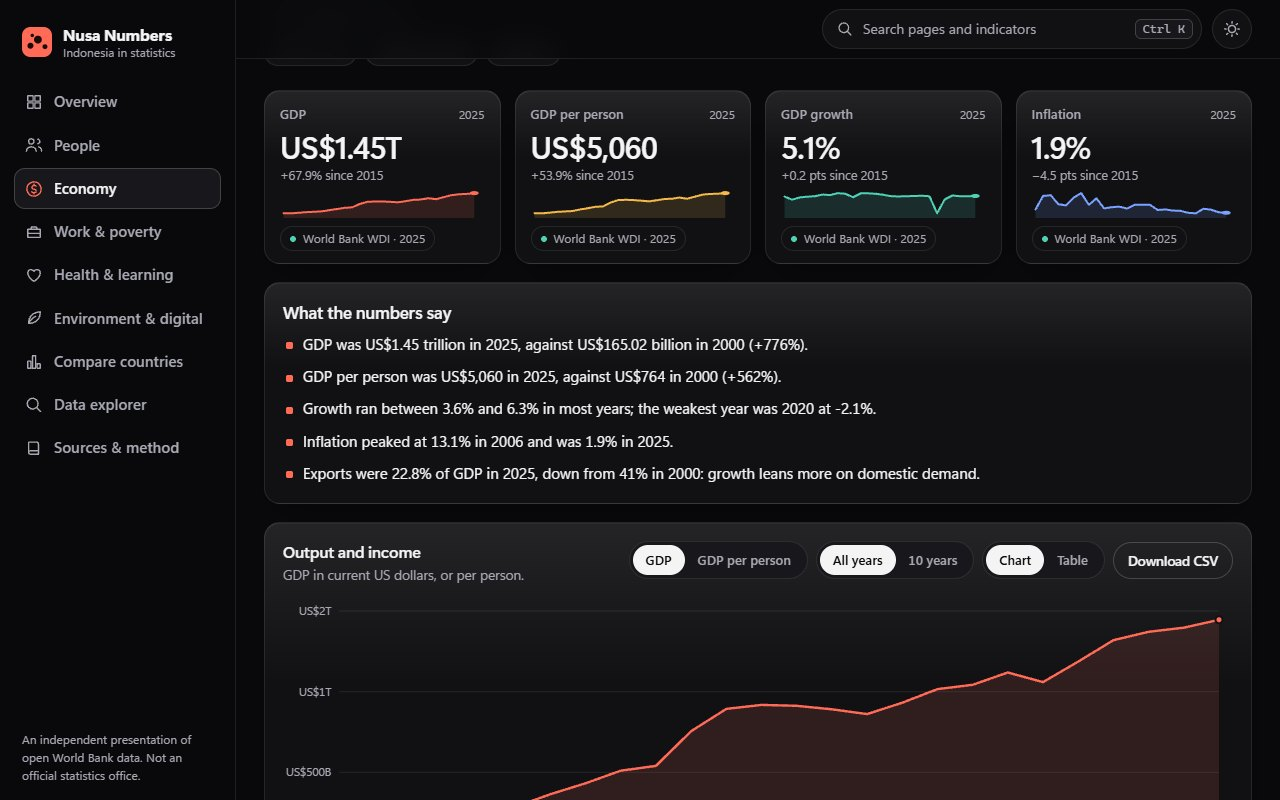
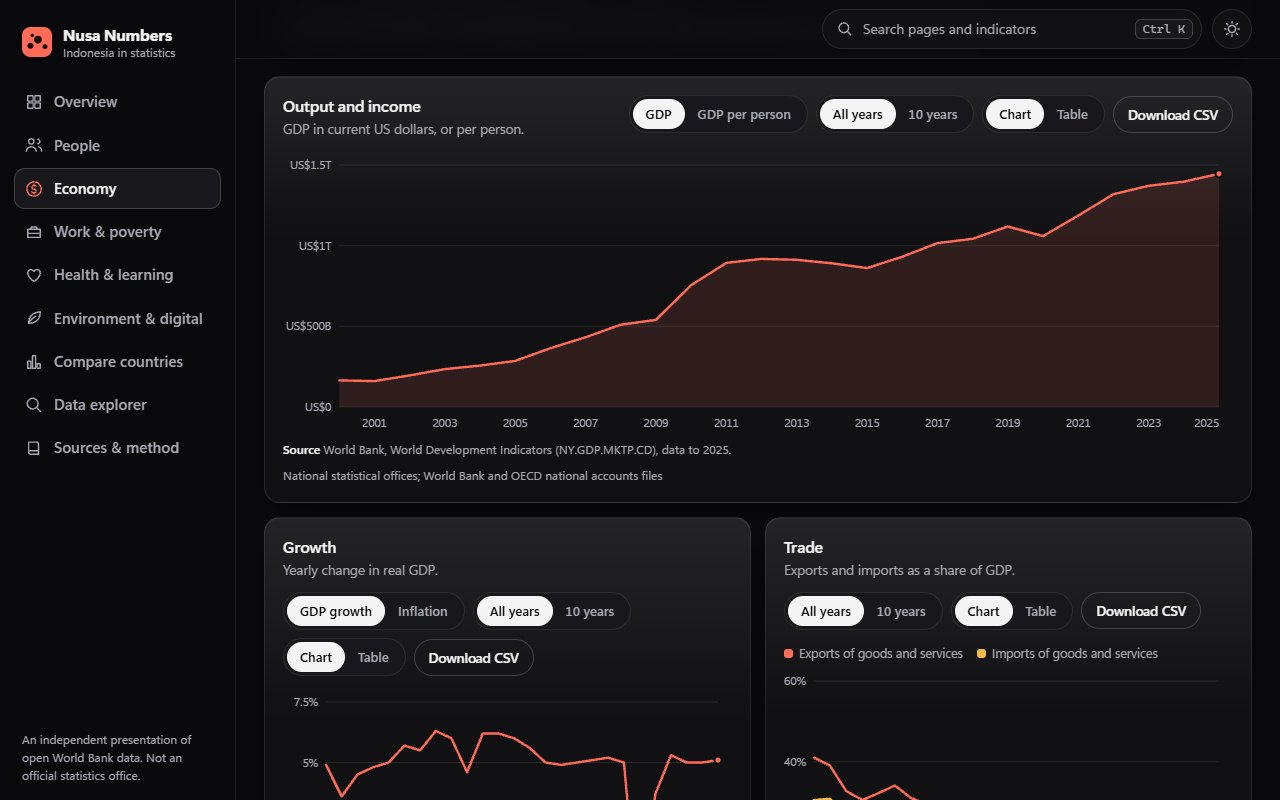
Reframe screenshots, fix axis labels, overflow, attributions; rename views->pages, data->series

diff --git a/app/js/catalog.js b/app/js/catalog.js
@@ -1,5 +1,5 @@
 // The catalogue: every indicator the site shows (World Bank code, label, how to format it, who compiled it)
-// and the topic pages they belong to. The numbers themselves live in app/data/, one file per topic.
+// and the topic pages they belong to. The numbers themselves live in app/series/, one file per topic.
 
 const WDI = 'World Bank WDI';
 
@@ -23,16 +23,16 @@ const ROWS = [
   ['SP.DYN.CBRT.IN', 'people', 'Birth rate', 'plain', 1, '', ' per 1,000', 'rate', 'UN Population Division', 'Live births per 1,000 people in a year.'],
   ['SP.DYN.CDRT.IN', 'people', 'Death rate', 'plain', 1, '', ' per 1,000', 'rate', 'UN Population Division', 'Deaths per 1,000 people in a year.'],
 
-  ['NY.GDP.MKTP.CD', 'economy', 'GDP', 'big', 2, 'US$', '', 'count', 'World Bank and OECD national accounts data', 'Gross domestic product at market prices, current US dollars.'],
-  ['NY.GDP.PCAP.CD', 'economy', 'GDP per person', 'plain', 0, 'US$', '', 'count', 'World Bank and OECD national accounts data', 'GDP divided by mid-year population, current US dollars.'],
-  ['NY.GDP.MKTP.KD.ZG', 'economy', 'GDP growth', 'plain', 1, '', '%', 'percent', 'World Bank and OECD national accounts data', 'Annual growth of GDP at constant prices.'],
+  ['NY.GDP.MKTP.CD', 'economy', 'GDP', 'big', 2, 'US$', '', 'count', 'National statistical offices; World Bank and OECD national accounts files', 'Gross domestic product at market prices, current US dollars.'],
+  ['NY.GDP.PCAP.CD', 'economy', 'GDP per person', 'plain', 0, 'US$', '', 'count', 'National statistical offices; World Bank and OECD national accounts files', 'GDP divided by mid-year population, current US dollars.'],
+  ['NY.GDP.MKTP.KD.ZG', 'economy', 'GDP growth', 'plain', 1, '', '%', 'percent', 'National statistical offices; World Bank and OECD national accounts files', 'Annual growth of GDP at constant prices.'],
   ['FP.CPI.TOTL.ZG', 'economy', 'Inflation', 'plain', 1, '', '%', 'percent', 'IMF International Financial Statistics', 'Annual change in consumer prices.'],
-  ['NE.EXP.GNFS.ZS', 'economy', 'Exports of goods and services', 'plain', 1, '', '% of GDP', 'percent', 'World Bank and OECD national accounts data', 'Value of exports as a share of GDP.'],
-  ['NE.IMP.GNFS.ZS', 'economy', 'Imports of goods and services', 'plain', 1, '', '% of GDP', 'percent', 'World Bank and OECD national accounts data', 'Value of imports as a share of GDP.'],
-  ['BX.KLT.DINV.WD.GD.ZS', 'economy', 'Foreign direct investment', 'plain', 1, '', '% of GDP', 'percent', 'IMF Balance of Payments Statistics', 'Net inflows of foreign direct investment as a share of GDP.'],
-  ['NV.AGR.TOTL.ZS', 'economy', 'Agriculture, value added', 'plain', 1, '', '% of GDP', 'percent', 'World Bank and OECD national accounts data', 'Farming, forestry and fishing as a share of GDP.'],
-  ['NV.IND.TOTL.ZS', 'economy', 'Industry, value added', 'plain', 1, '', '% of GDP', 'percent', 'World Bank and OECD national accounts data', 'Mining, manufacturing, construction and utilities as a share of GDP.'],
-  ['NV.SRV.TOTL.ZS', 'economy', 'Services, value added', 'plain', 1, '', '% of GDP', 'percent', 'World Bank and OECD national accounts data', 'Trade, transport, finance, public and other services as a share of GDP.'],
+  ['NE.EXP.GNFS.ZS', 'economy', 'Exports of goods and services', 'plain', 1, '', '% of GDP', 'percent', 'National statistical offices; World Bank and OECD national accounts files', 'Value of exports as a share of GDP.'],
+  ['NE.IMP.GNFS.ZS', 'economy', 'Imports of goods and services', 'plain', 1, '', '% of GDP', 'percent', 'National statistical offices; World Bank and OECD national accounts files', 'Value of imports as a share of GDP.'],
+  ['BX.KLT.DINV.WD.GD.ZS', 'economy', 'Foreign direct investment', 'plain', 1, '', '% of GDP', 'percent', 'IMF International Financial Statistics and Balance of Payments databases', 'Net inflows of foreign direct investment as a share of GDP.'],
+  ['NV.AGR.TOTL.ZS', 'economy', 'Agriculture, value added', 'plain', 1, '', '% of GDP', 'percent', 'National statistical offices; World Bank and OECD national accounts files', 'Farming, forestry and fishing as a share of GDP.'],
+  ['NV.IND.TOTL.ZS', 'economy', 'Industry, value added', 'plain', 1, '', '% of GDP', 'percent', 'National statistical offices; World Bank and OECD national accounts files', 'Mining, manufacturing, construction and utilities as a share of GDP.'],
+  ['NV.SRV.TOTL.ZS', 'economy', 'Services, value added', 'plain', 1, '', '% of GDP', 'percent', 'National statistical offices; World Bank and OECD national accounts files', 'Trade, transport, finance, public and other services as a share of GDP.'],
 
   ['SL.UEM.TOTL.ZS', 'labour', 'Unemployment', 'plain', 1, '', '%', 'percent', 'ILO modelled estimates', 'Share of the labour force without work but available and looking for it.'],
   ['SL.TLF.CACT.ZS', 'labour', 'Labour force participation', 'plain', 1, '', '%', 'percent', 'ILO modelled estimates', 'People aged 15+ who work or look for work, as a share of that age group.'],
@@ -52,8 +52,8 @@ const ROWS = [
   ['SE.XPD.TOTL.GD.ZS', 'wellbeing', 'Education spending', 'plain', 1, '', '% of GDP', 'percent', 'UNESCO Institute for Statistics', 'Government spending on education as a share of GDP.'],
 
   ['EN.GHG.CO2.PC.CE.AR5', 'environment', 'CO₂ emissions per person', 'plain', 2, '', ' t', 'count', 'EDGAR (European Commission JRC) via WDI', 'Tonnes of carbon dioxide per person, excluding land use change and forestry.'],
-  ['EG.ELC.ACCS.ZS', 'environment', 'Access to electricity', 'plain', 1, '', '%', 'percent', 'Sustainable Energy for All; Tracking SDG7', 'Share of the population with electricity at home.'],
-  ['EG.FEC.RNEW.ZS', 'environment', 'Renewable share of energy', 'plain', 1, '', '%', 'percent', 'IEA; Sustainable Energy for All', 'Renewables as a share of final energy consumption.'],
+  ['EG.ELC.ACCS.ZS', 'environment', 'Access to electricity', 'plain', 1, '', '%', 'percent', 'World Bank ESMAP, SDG 7.1.1 electrification dataset', 'Share of the population with electricity at home.'],
+  ['EG.FEC.RNEW.ZS', 'environment', 'Renewable share of energy', 'plain', 1, '', '%', 'percent', 'IEA Energy Statistics', 'Renewables as a share of final energy consumption.'],
   ['AG.LND.FRST.ZS', 'environment', 'Forest area', 'plain', 1, '', '% of land', 'percent', 'FAO Global Forest Resources Assessment', 'Land under natural or planted trees at least 5 m tall.'],
   ['IT.NET.USER.ZS', 'environment', 'Internet users', 'plain', 1, '', '% of people', 'percent', 'International Telecommunication Union', 'People who used the internet in the last three months.'],
   ['IT.CEL.SETS.P2', 'environment', 'Mobile subscriptions', 'plain', 0, '', ' per 100', 'rate', 'International Telecommunication Union', 'Active mobile-cellular subscriptions per 100 people.'],

diff --git a/app/js/routes.js b/app/js/routes.js
@@ -1,15 +1,15 @@
 // The site map: each route's path, nav label and the lazily loaded view module that draws it.
 // Views are fetched with literal import() calls so the first load stays small.
 export const ROUTES = [
-  { path: '/', label: 'Overview', icon: 'grid', load: () => import('./views/overview.js') },
-  { path: '/people', label: 'People', icon: 'people', load: () => import('./views/people.js') },
-  { path: '/economy', label: 'Economy', icon: 'coin', load: () => import('./views/economy.js') },
-  { path: '/work', label: 'Work & poverty', icon: 'work', load: () => import('./views/labour.js') },
-  { path: '/health', label: 'Health & learning', icon: 'heart', load: () => import('./views/wellbeing.js') },
-  { path: '/environment', label: 'Environment & digital', icon: 'leaf', load: () => import('./views/environment.js') },
-  { path: '/compare', label: 'Compare countries', icon: 'bars', load: () => import('./views/compare.js') },
-  { path: '/explorer', label: 'Data explorer', icon: 'search', load: () => import('./views/explorer.js') },
-  { path: '/sources', label: 'Sources & method', icon: 'book', load: () => import('./views/sources.js') },
+  { path: '/', label: 'Overview', icon: 'grid', load: () => import('./pages/overview.js') },
+  { path: '/people', label: 'People', icon: 'people', load: () => import('./pages/people.js') },
+  { path: '/economy', label: 'Economy', icon: 'coin', load: () => import('./pages/economy.js') },
+  { path: '/work', label: 'Work & poverty', icon: 'work', load: () => import('./pages/labour.js') },
+  { path: '/health', label: 'Health & learning', icon: 'heart', load: () => import('./pages/wellbeing.js') },
+  { path: '/environment', label: 'Environment & digital', icon: 'leaf', load: () => import('./pages/environment.js') },
+  { path: '/compare', label: 'Compare countries', icon: 'bars', load: () => import('./pages/compare.js') },
+  { path: '/explorer', label: 'Data explorer', icon: 'search', load: () => import('./pages/explorer.js') },
+  { path: '/sources', label: 'Sources & method', icon: 'book', load: () => import('./pages/sources.js') },
 ];
 
 export const TOPIC_PATH = { people: '/people', economy: '/economy', labour: '/work', wellbeing: '/health', environment: '/environment' };

diff --git a/app/js/pages/explorer.js b/app/js/pages/explorer.js
@@ -3,7 +3,7 @@
 import { INDICATORS, TOPICS, indicatorsOfTopic } from '../catalog.js';
 import { loadEverything, seriesOf } from '../data-store.js';
 import { h } from '../dom.js';
-import { formatChange, formatValue, shorten } from '../format.js';
+import { axisShort, formatChange, formatValue } from '../format.js';
 import { lineChart } from '../charts/line-chart.js';
 import { csvButton, dataTable } from '../ui/data-table.js';
 import { pageHeader } from '../ui/page-header.js';
@@ -46,7 +46,7 @@ export async function render({ query }) {
     const body =
       state.view === 'table'
         ? dataTable([{ label: 'Year', align: 'left' }, { label: ind.label }], [...points].reverse().map((p) => [String(p.year), formatValue(ind, p.value)]), ind.label)
-        : lineChart({ series: [{ label: ind.label, points }], format: (v) => formatValue(ind, v), axisFormat: (v) => (ind.kind === 'big' ? `${ind.prefix}${shorten(v, { decimals: 0 })}` : `${ind.prefix}${v.toLocaleString('en-US', { maximumFractionDigits: 1 })}${ind.suffix.startsWith('%') ? '%' : ''}`), area: true, label: `${ind.label}, ${first.year} to ${last.year}` });
+        : lineChart({ series: [{ label: ind.label, points }], format: (v) => formatValue(ind, v), axisFormat: (v) => (ind.kind === 'big' ? `${ind.prefix}${axisShort(v)}` : `${ind.prefix}${v.toLocaleString('en-US', { maximumFractionDigits: 1 })}${ind.suffix.startsWith('%') ? '%' : ''}`), area: true, label: `${ind.label}, ${first.year} to ${last.year}` });
     out.replaceChildren(
       h('div', { class: 'mini-stats' },
         stat(`${last.year}`, formatValue(ind, last.value), 'latest in range'),

diff --git a/app/js/ui/chart-panel.js b/app/js/ui/chart-panel.js
@@ -6,14 +6,14 @@
 import { INDICATORS } from '../catalog.js';
 import { seriesOf } from '../data-store.js';
 import { h } from '../dom.js';
-import { formatValue, shorten } from '../format.js';
+import { axisShort, formatValue } from '../format.js';
 import { lineChart } from '../charts/line-chart.js';
 import { stackedColumns } from '../charts/stacked-columns.js';
 import { csvButton, dataTable } from './data-table.js';
 import { sourceLine } from './source-chip.js';
 import { tabs } from './tabs.js';
 
-const axisFor = (ind) => (value) => (ind.kind === 'big' ? shorten(value, { decimals: 0 }).replace(/^/, ind.prefix) : `${ind.prefix}${value.toLocaleString('en-US', { maximumFractionDigits: ind.decimals > 0 ? 1 : 0 })}${ind.suffix.startsWith('%') ? '%' : ''}`);
+const axisFor = (ind) => (value) => (ind.kind === 'big' ? `${ind.prefix}${axisShort(value)}` : `${ind.prefix}${value.toLocaleString('en-US', { maximumFractionDigits: ind.decimals > 0 ? 1 : 0 })}${ind.suffix.startsWith('%') ? '%' : ''}`);
 
 function trim(points, range) {
   return range === 'all' ? points : points.filter((p) => p.year > points.at(-1).year - Number(range));

diff --git a/app/js/pages/overview.js b/app/js/pages/overview.js
@@ -3,7 +3,7 @@
 import { COUNTRIES, INDICATORS, TOPICS } from '../catalog.js';
 import { latestOf, loadEverything, peerData, seriesOf } from '../data-store.js';
 import { h } from '../dom.js';
-import { formatValue, shorten } from '../format.js';
+import { axisShort, formatValue } from '../format.js';
 import { lineChart } from '../charts/line-chart.js';
 import { rankedBars } from '../charts/ranked-bars.js';
 import { TOPIC_PATH, hrefTo } from '../routes.js';
@@ -34,7 +34,7 @@ function heroCard() {
       lineChart({
         series: [{ label: ind.label, points: seriesOf(code) }],
         format: (v) => formatValue(ind, v),
-        axisFormat: (v) => (ind.kind === 'big' ? `${ind.prefix}${shorten(v, { decimals: 0 })}` : `${ind.prefix}${v.toLocaleString('en-US')}`),
+        axisFormat: (v) => (ind.kind === 'big' ? `${ind.prefix}${axisShort(v)}` : `${ind.prefix}${v.toLocaleString('en-US')}`),
         area: true,
         height: 140,
         label: `${ind.label}, ${first.year} to ${last.year}`,

diff --git a/app/js/format.js b/app/js/format.js
@@ -26,6 +26,9 @@ export function shorten(value, { long = false, decimals = 1 } = {}) {
   return group(value, abs >= 100 ? 0 : decimals);
 }
 
+// Axis labels: "1.5T", "500B", "250M" (one decimal only when it is needed).
+export const axisShort = (value) => shorten(value, { decimals: 1 }).replace(/\.0(?=[A-Z]?$)/, '');
+
 // Format a value of one indicator, e.g. formatValue(ind, 5.05) -> "5.1%".
 export function formatValue(ind, value, { short = false } = {}) {
   if (value == null || Number.isNaN(value)) return 'n/a';
@@ -39,7 +42,7 @@ export function formatValue(ind, value, { short = false } = {}) {
 // Signed change, used for "since 2000" style captions.
 export function formatChange(ind, from, to) {
   if (from == null || to == null) return '';
-  if (ind.unit === 'percent' || ind.unit === 'rate') {
+  if (ind.unit === 'percent') {
     const diff = to - from;
     return `${diff >= 0 ? '+' : '−'}${group(Math.abs(diff), 1)} pts`;
   }

diff --git a/app/js/charts/bubble-scatter.js b/app/js/charts/bubble-scatter.js
@@ -34,7 +34,9 @@ export function bubbleScatter({ dots, xFormat, yFormat, xTitle, yTitle, height =
       const r = 6 + Math.sqrt(dot.size / maxSize) * 18;
       const cx = x(dot.x);
       const cy = y(dot.y);
-      const above = order.indexOf(dot) % 2 === 1;
+      const home = dots.find((d) => d.highlight);
+      const nextToHome = !dot.highlight && home && Math.abs(Math.log10(dot.x / home.x)) < 0.12; // neighbours of the highlighted bubble go above it
+      const above = dot.highlight ? false : nextToHome || order.indexOf(dot) % 2 === 1;
       const place = { x: Math.min(cx, width - 30), y: above ? cy - r - 6 : cy + r + 14, anchor: 'middle' };
       root.append(
         svg('g', { class: dot.highlight ? 'bubble is-home' : 'bubble' },

diff --git a/app/js/data-store.js b/app/js/data-store.js
@@ -3,12 +3,12 @@
 import { INDICATORS } from './catalog.js';
 
 const loaders = {
-  people: () => import('../data/people.js'),
-  economy: () => import('../data/economy.js'),
-  labour: () => import('../data/labour.js'),
-  wellbeing: () => import('../data/wellbeing.js'),
-  environment: () => import('../data/environment.js'),
-  peers: () => import('../data/peers.js'),
+  people: () => import('../series/people.js'),
+  economy: () => import('../series/economy.js'),
+  labour: () => import('../series/labour.js'),
+  wellbeing: () => import('../series/wellbeing.js'),
+  environment: () => import('../series/environment.js'),
+  peers: () => import('../series/peers.js'),
 };
 
 const modules = new Map();

diff --git a/app/css/components.css b/app/css/components.css
@@ -82,7 +82,7 @@ kbd { padding: 2px 7px; border-radius: 6px; border: 1px solid var(--border-stron
 .hero-chart { min-height: 140px; }
 
 /* panels */
-.panel { display: grid; gap: 14px; align-content: start; }
+.panel { display: grid; grid-template-columns: minmax(0, 1fr); gap: 14px; align-content: start; }
 .panel-head { display: flex; justify-content: space-between; align-items: flex-start; gap: 12px 16px; flex-wrap: wrap; }
 .panel-controls { display: flex; gap: 8px; flex-wrap: wrap; align-items: center; max-width: 100%; }
 .panel-body { display: grid; gap: 8px; min-width: 0; }

diff --git a/app/js/pages/labour.js b/app/js/pages/labour.js
@@ -8,7 +8,7 @@ export const title = 'Work & poverty';
 export const render = () =>
   renderTopic({
     topic: 'labour',
-    title: 'Jobs, pay-packets and poverty',
+    title: 'Jobs, sectors and poverty',
     lede: 'Unemployment is low and farm work is shrinking as jobs move to factories and services. Extreme poverty has fallen sharply.',
     headline: ['SL.UEM.TOTL.ZS', 'SL.TLF.CACT.ZS', 'SL.TLF.CACT.FE.ZS', 'SI.POV.DDAY'],
     notes: () => {

diff --git a/app/css/layout.css b/app/css/layout.css
@@ -31,7 +31,7 @@
   border-bottom: 1px solid var(--border);
 }
 .page { max-width: 1120px; margin: 0 auto; padding: 18px 28px 56px; outline: none; }
-.view { display: grid; gap: 18px; }
+.view { display: grid; grid-template-columns: minmax(0, 1fr); gap: 18px; }
 .loading { color: var(--muted); padding: 40px 0; }
 
 .page-head { display: grid; gap: 6px; padding: 2px 0 6px; }
